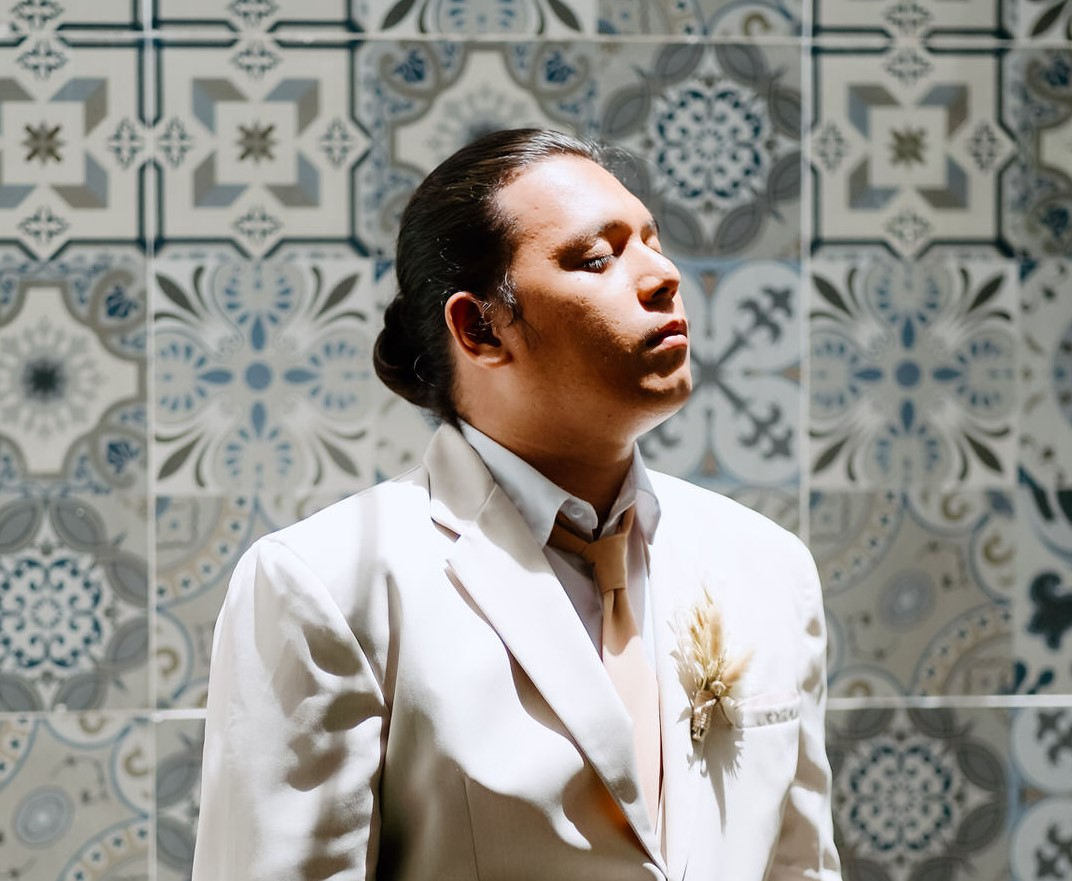
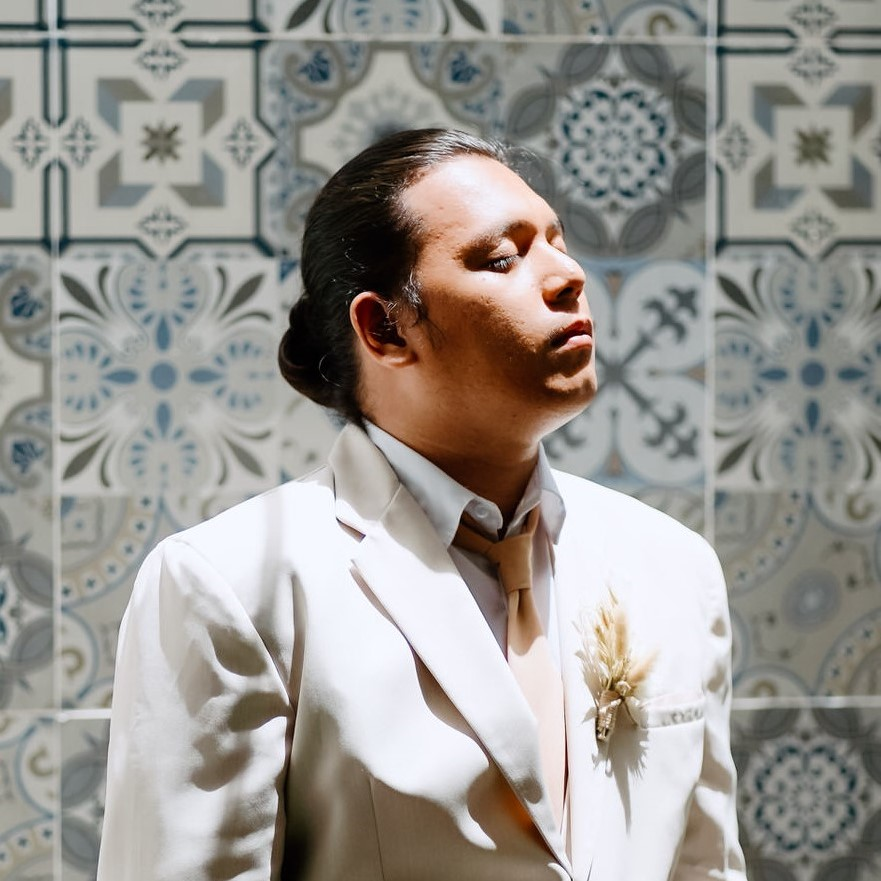
Updated Revision

diff --git a/capstone.html b/capstone.html
@@ -23,7 +23,7 @@
 <body class="bg-secondary">
 
 	<!-- Nav Bar -->
-	<nav class="navbar navbar-expand-lg navbar-light bg-dark fixed-top">
+	<nav class="navbar navbar-expand-lg navbar-light fixed-top">
 	  <a class="navbar-brand text-light display: sticky" href="#pinakauna">ALBERT</a>
 	  <button class="navbar-toggler" type="button" data-toggle="collapse" data-target="#navbarSupportedContent" aria-controls="navbarSupportedContent" aria-expanded="false" aria-label="Toggle navigation">
 	    <span class="navbar-toggler-icon"></span>
@@ -52,7 +52,8 @@
 				<div class="picture">
 			<h1 class="text-dark title">MAC ALBERT CULABAN</h1>
 			<h2 class="text-dark subtitle">Full Stack Web Developer | Electronics Engineer </h2>
-		</div>
+			<img src="./images/mac.jpg" class="image img-fluid">
+				</div>
 	</div>
 	</section>
 			
@@ -68,15 +69,15 @@
 
 
 	<!-- Tools Page -->
-		<section id="tools" class="mt-5 text-center text-white">
+		<section id="tools" class="text-center text-white">
 		<div class="d-md-flex  justify-content-around text-center container">
 	
-		<div class="bg-secondary text-light min-vh-100">
+		<div class=" text-light min-vh-100">
           <h2 class="mb-3">PROFILE</h2>
 
           <div class="card-deck">
             <div class="card bg-dark text-light p-3">
-              <img src="https://3.bp.blogspot.com/-7x5c_f1yzsQ/XHv9FZKHrEI/AAAAAAAADrE/4iGl9Lm6K2odX4SdWbU_RN6gZesx4IaGACEwYBhgL/s1600/html.jpg" class="card-img-top" alt="...">
+              <img src="https://3.bp.blogspot.com/-7x5c_f1yzsQ/XHv9FZKHrEI/AAAAAAAADrE/4iGl9Lm6K2odX4SdWbU_RN6gZesx4IaGACEwYBhgL/s1600/html.jpg" class="card-img-top" alt="avatar">
               <div class="card-body">
                 <h5 class="card-title">HTML</h5>
                 <p class="card-text">HTML (HyperText Markup Language) is the most basic building block of the Web. It defines the meaning and structure of web content. Other technologies besides HTML are generally used to describe a web page's appearance/presentation (CSS) or functionality/behavior (JavaScript).</p>
@@ -84,7 +85,7 @@
               </div>
             </div>
             <div class="card bg-dark text-light p-3">
-              <img src="https://i.morioh.com/2019/12/17/f1ce6a0af5cb.jpg" class="card-img-top" alt="...">
+              <img src="https://i.morioh.com/2019/12/17/f1ce6a0af5cb.jpg" class="card-img-top" alt="avatar">
               <div class="card-body">
                 <h5 class="card-title">Bootstrap</h5>
                 <p class="card-text"> Bootstrap is a free, open source front-end development framework for the creation of websites and web apps. Designed to enable responsive development of mobile-first websites, Bootstrap provides a collection of syntax for template designs</p>
@@ -92,7 +93,7 @@
               </div>
             </div>
             <div class="card bg-dark text-light p-3">
-              <img src="https://www.vectorlogo.zone/logos/w3_css/w3_css-ar21.png" alt="..." >
+              <img src="https://www.vectorlogo.zone/logos/w3_css/w3_css-ar21.png" alt="avatar" >
               <div class="card-body">
                 <h5 class="card-title">CSS</h5>
                 <p class="card-text">CSS is the language for describing the presentation of Web pages, including colors, layout, and fonts. It allows one to adapt the presentation to different types of devices, such as large screens, small screens, or printers. CSS is independent of HTML and can be used with any XML-based markup language</p>
@@ -120,10 +121,10 @@
 			
 			
 			  <section id="contact_me">
-			  	<div class="container">
+			  	<div class="container text-light pt-2 pb-2">
 			    <h1 class="text-center">Contact</h1>
 
-			    <form style="height: 250px" class="container-fluid p-3 col-md-8 col-lg-6 d-flex flex-column justify-content-center bg-secondary">
+			    <form style="height: 250px" class="container-fluid p-3 col-md-8 col-lg-6 d-flex flex-column justify-content-center ">
 
 			      <label for="full_name">Name</label>
 			      <input type="text" name="full_name" placeholder="Full Name" required>
@@ -135,11 +136,18 @@
 			      
 			      <!-- Button trigger modal -->
 			      <div>
-			      <button type="button" class="btn btn-dark text-white mt-3" data-toggle="modal" data-target="#exampleModal">Submit</button>
+			      <button type="button" class="btn btn-success text-white mt-3" data-toggle="modal" data-target="#exampleModal">Submit</button>
 			      </div>
 
 			    </form>
 			    </div> 
+
+			    <footer class="text-center container-fluid">
+				<p id="footer" class="text-light text-center mt-3">
+					© Mac Albert Culaban | Web Developer | +639610443066 | culaban.macalbert@gmail.com
+				</p>
+				</footer>
+
 			  </section>
 		
 
@@ -176,11 +184,7 @@
 
 			<!-- bottom section for copyright -->
 
-			<footer class="text-center container-fluid bg-dark">
-				<p id="footer" class="text-light text-center mt-3">
-					© Mac Albert Culaban | Web Developer | +639610443066 | culaban.macalbert@gmail.com
-				</p>
-			</footer>
+			
 	</div>
 	<script src="https://cdn.jsdelivr.net/npm/jquery@3.5.1/dist/jquery.slim.min.js" integrity="sha384-DfXdz2htPH0lsSSs5nCTpuj/zy4C+OGpamoFVy38MVBnE+IbbVYUew+OrCXaRkfj" crossorigin="anonymous"></script>
 	<script src="https://cdn.jsdelivr.net/npm/bootstrap@4.6.1/dist/js/bootstrap.bundle.min.js" integrity="sha384-fQybjgWLrvvRgtW6bFlB7jaZrFsaBXjsOMm/tB9LTS58ONXgqbR9W8oWht/amnpF" crossorigin="anonymous"></script>

diff --git a/capstone.css b/capstone.css
@@ -1,7 +1,6 @@
 /*reset*/
 
 *{
-  font-family: 'Oswald', sans-serif;
   margin: 0;
   padding: 0;
   box-sizing: border-box;
@@ -12,6 +11,7 @@ nav.navbar ul li a {
   position: relative;
   overflow: hidden;
   z-index: 1;
+
 }
 nav.navbar ul li a:after {
   display: block;
@@ -27,13 +27,12 @@ nav.navbar ul li a:after {
   height: 1px;
   border-radius: 50%;
   background: transparent;
+
 }
 
-
-#contact_me{
-  padding-top: 20%;
-  padding-bottom: 10%;
-
+.navbar{
+  background-color: #14213d;
+  font-family: 'Oswald', sans-serif;
 }
 
 html{
@@ -49,8 +48,10 @@ html{
 }
 
 #footer{
-  font-size: 12px;
+  font-size: 10px;
   letter-spacing: 2px;
+  padding-top: 15%;
+  font-family: 'Sofia Sans Semi Condensed', sans-serif;
 }
 
 #pinakauna{
@@ -59,26 +60,52 @@ html{
   background-image: url(https://images.unsplash.com/photo-1574192324001-ee41e18ed679?ixlib=rb-4.0.3&ixid=MnwxMjA3fDB8MHxwaG90by1wYWdlfHx8fGVufDB8fHx8&auto=format&fit=crop&w=1470&q=80);
   background-repeat: no-repeat;
   background-position: center;
-  background-size: 100%;
+  background-size: cover;
   height: 60%;
-  display: flex;
-  flex-wrap: wrap;
-  background: cover;
+  font-family: 'Oswald', sans-serif;
 }
 
 
 #tools{
   padding-top: 10%;
+  padding-bottom: 20%;
+  background-image: url(https://images.unsplash.com/photo-1520092352425-9699926a9b0b?ixlib=rb-4.0.3&ixid=MnwxMjA3fDB8MHxwaG90by1wYWdlfHx8fGVufDB8fHx8&auto=format&fit=crop&w=1470&q=80);
+  background-repeat: no-repeat;
+  background-position: center;
+  background-size: cover;
+  font-family: 'Sofia Sans Semi Condensed', sans-serif;
+}
+
+#contact_me{
+  padding-top: 20%;
+  background-image: url(https://images.unsplash.com/photo-1423784346385-c1d4dac9893a?ixlib=rb-4.0.3&ixid=MnwxMjA3fDB8MHxwaG90by1wYWdlfHx8fGVufDB8fHx8&auto=format&fit=crop&w=1470&q=80);
+  background-repeat: no-repeat;
+  background-position: center;
+  background-size: cover;
+  height: 50%;
+  font-family: 'Oswald', sans-serif;
+
 }
 
 
 .title{
-  padding-top: 20%;
+  padding-top: 5%;
   font-size: 80px;
   text-align: left;
+  font-family: 'Oswald', sans-serif;
 }
 
 .subtitle{
   position: relative;
   text-align: left;
+  font-family: 'Oswald', sans-serif;
+}
+
+.image{
+  margin-top: 3%;
+  width: 30%;
+  height: 30%;
+  border-radius: 50%;
+  border-style: solid;
+  border-color: #d5bdaf;
 }
